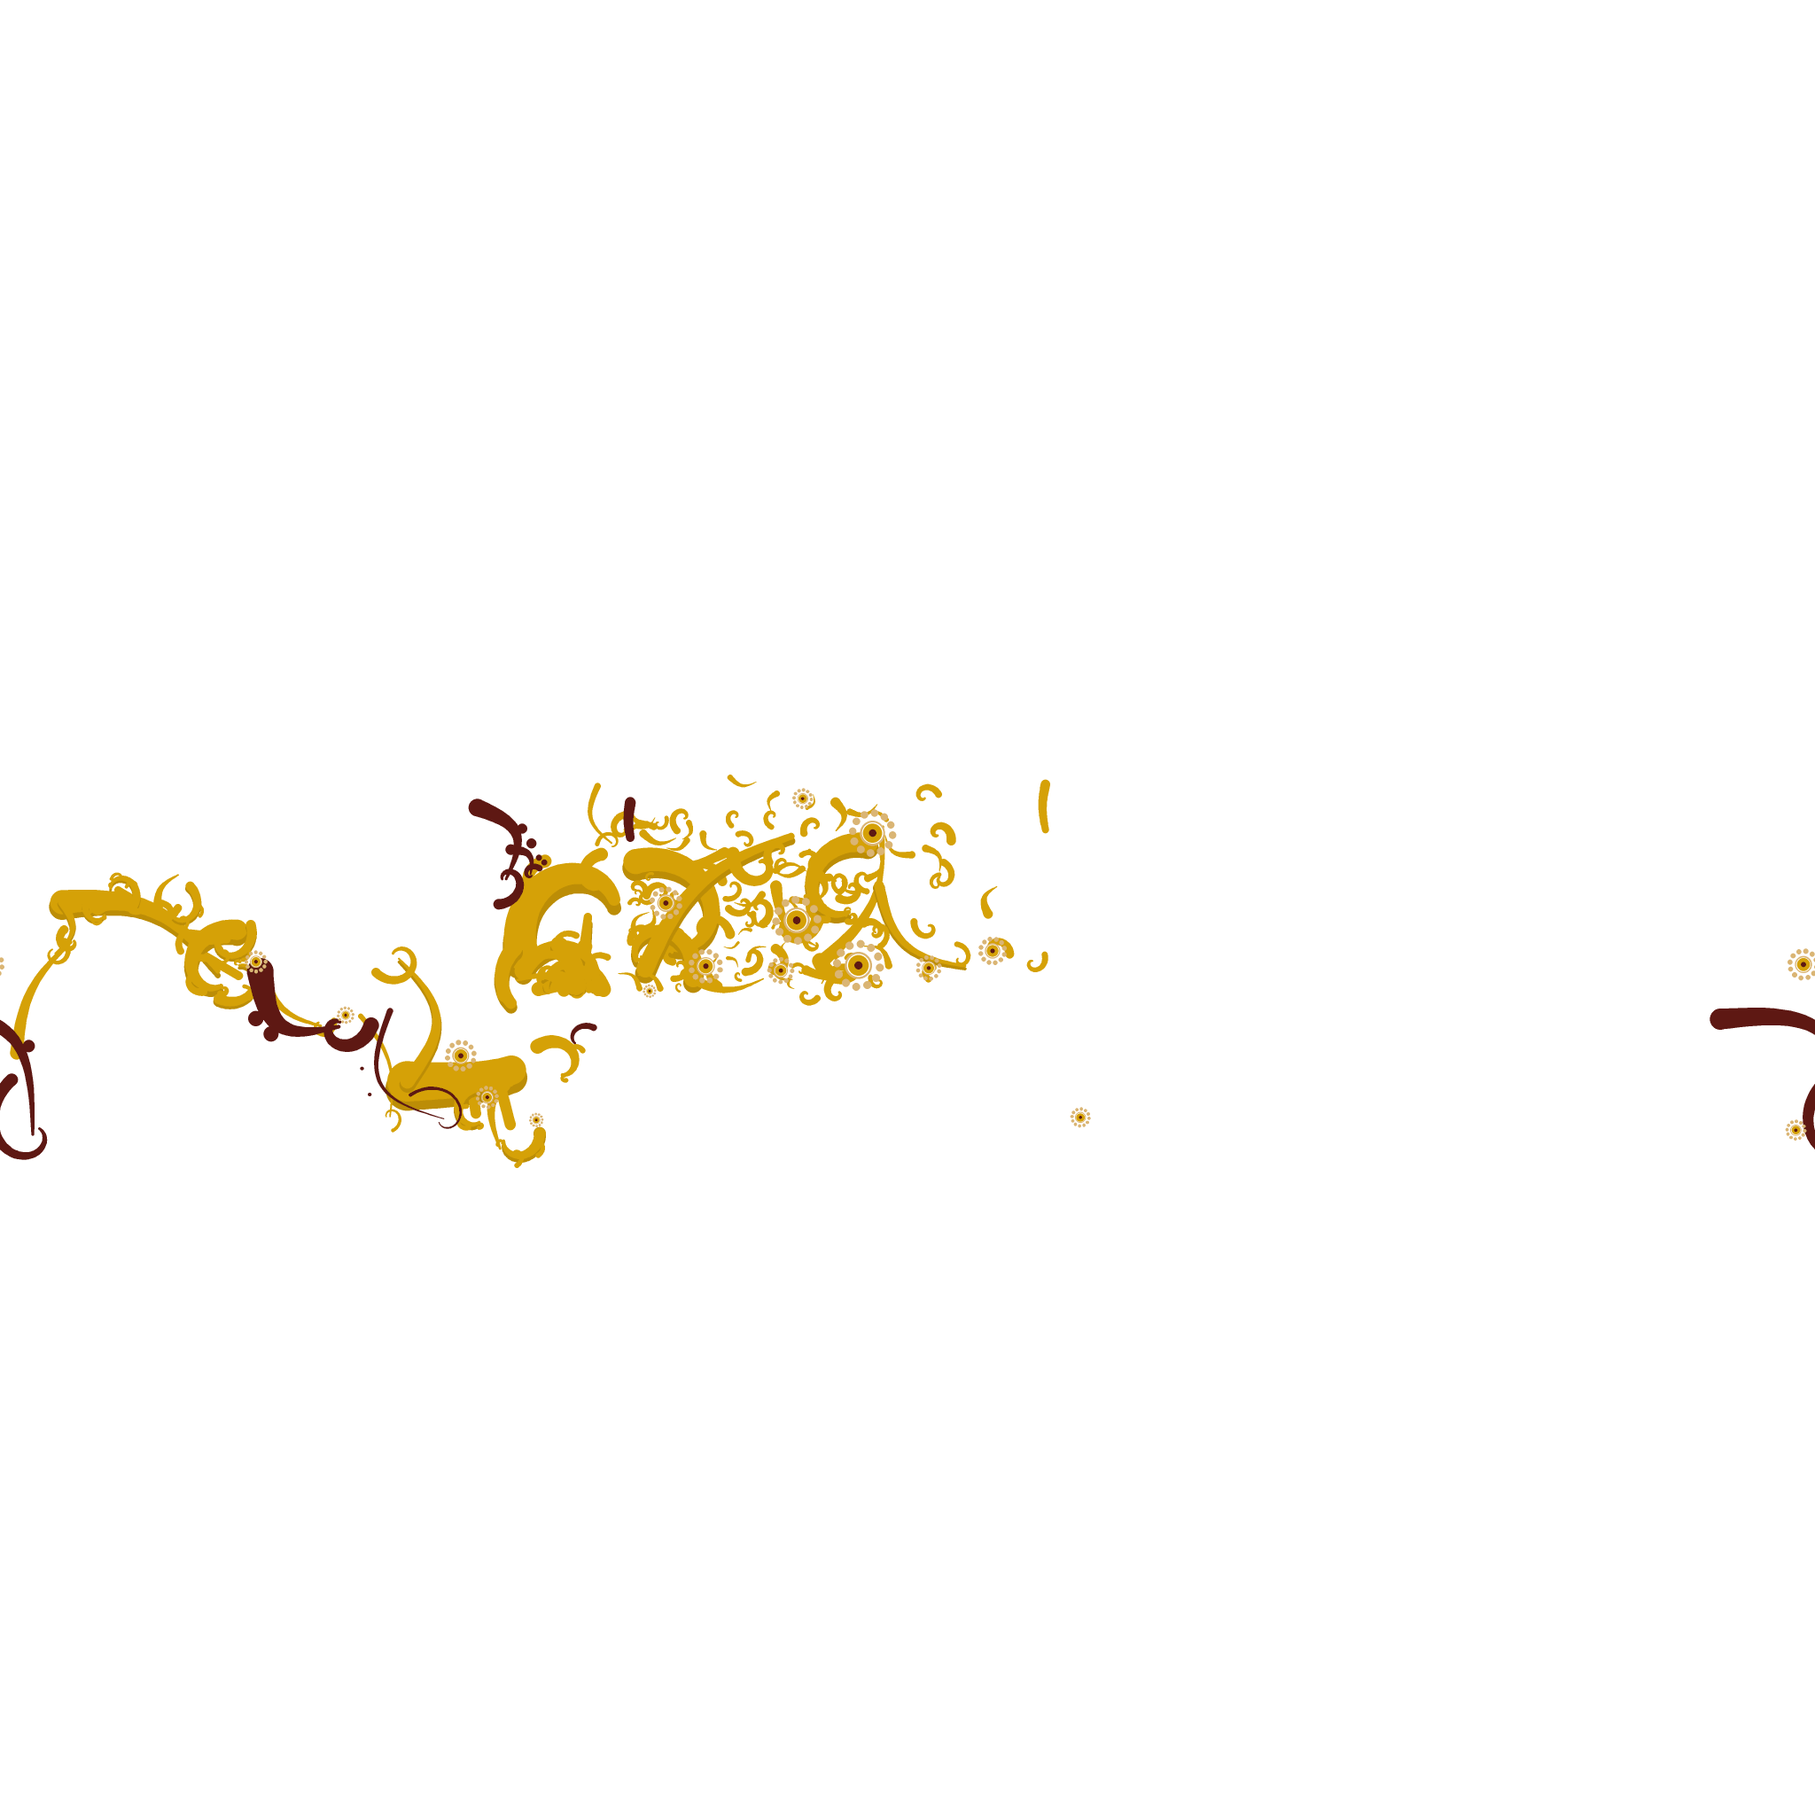
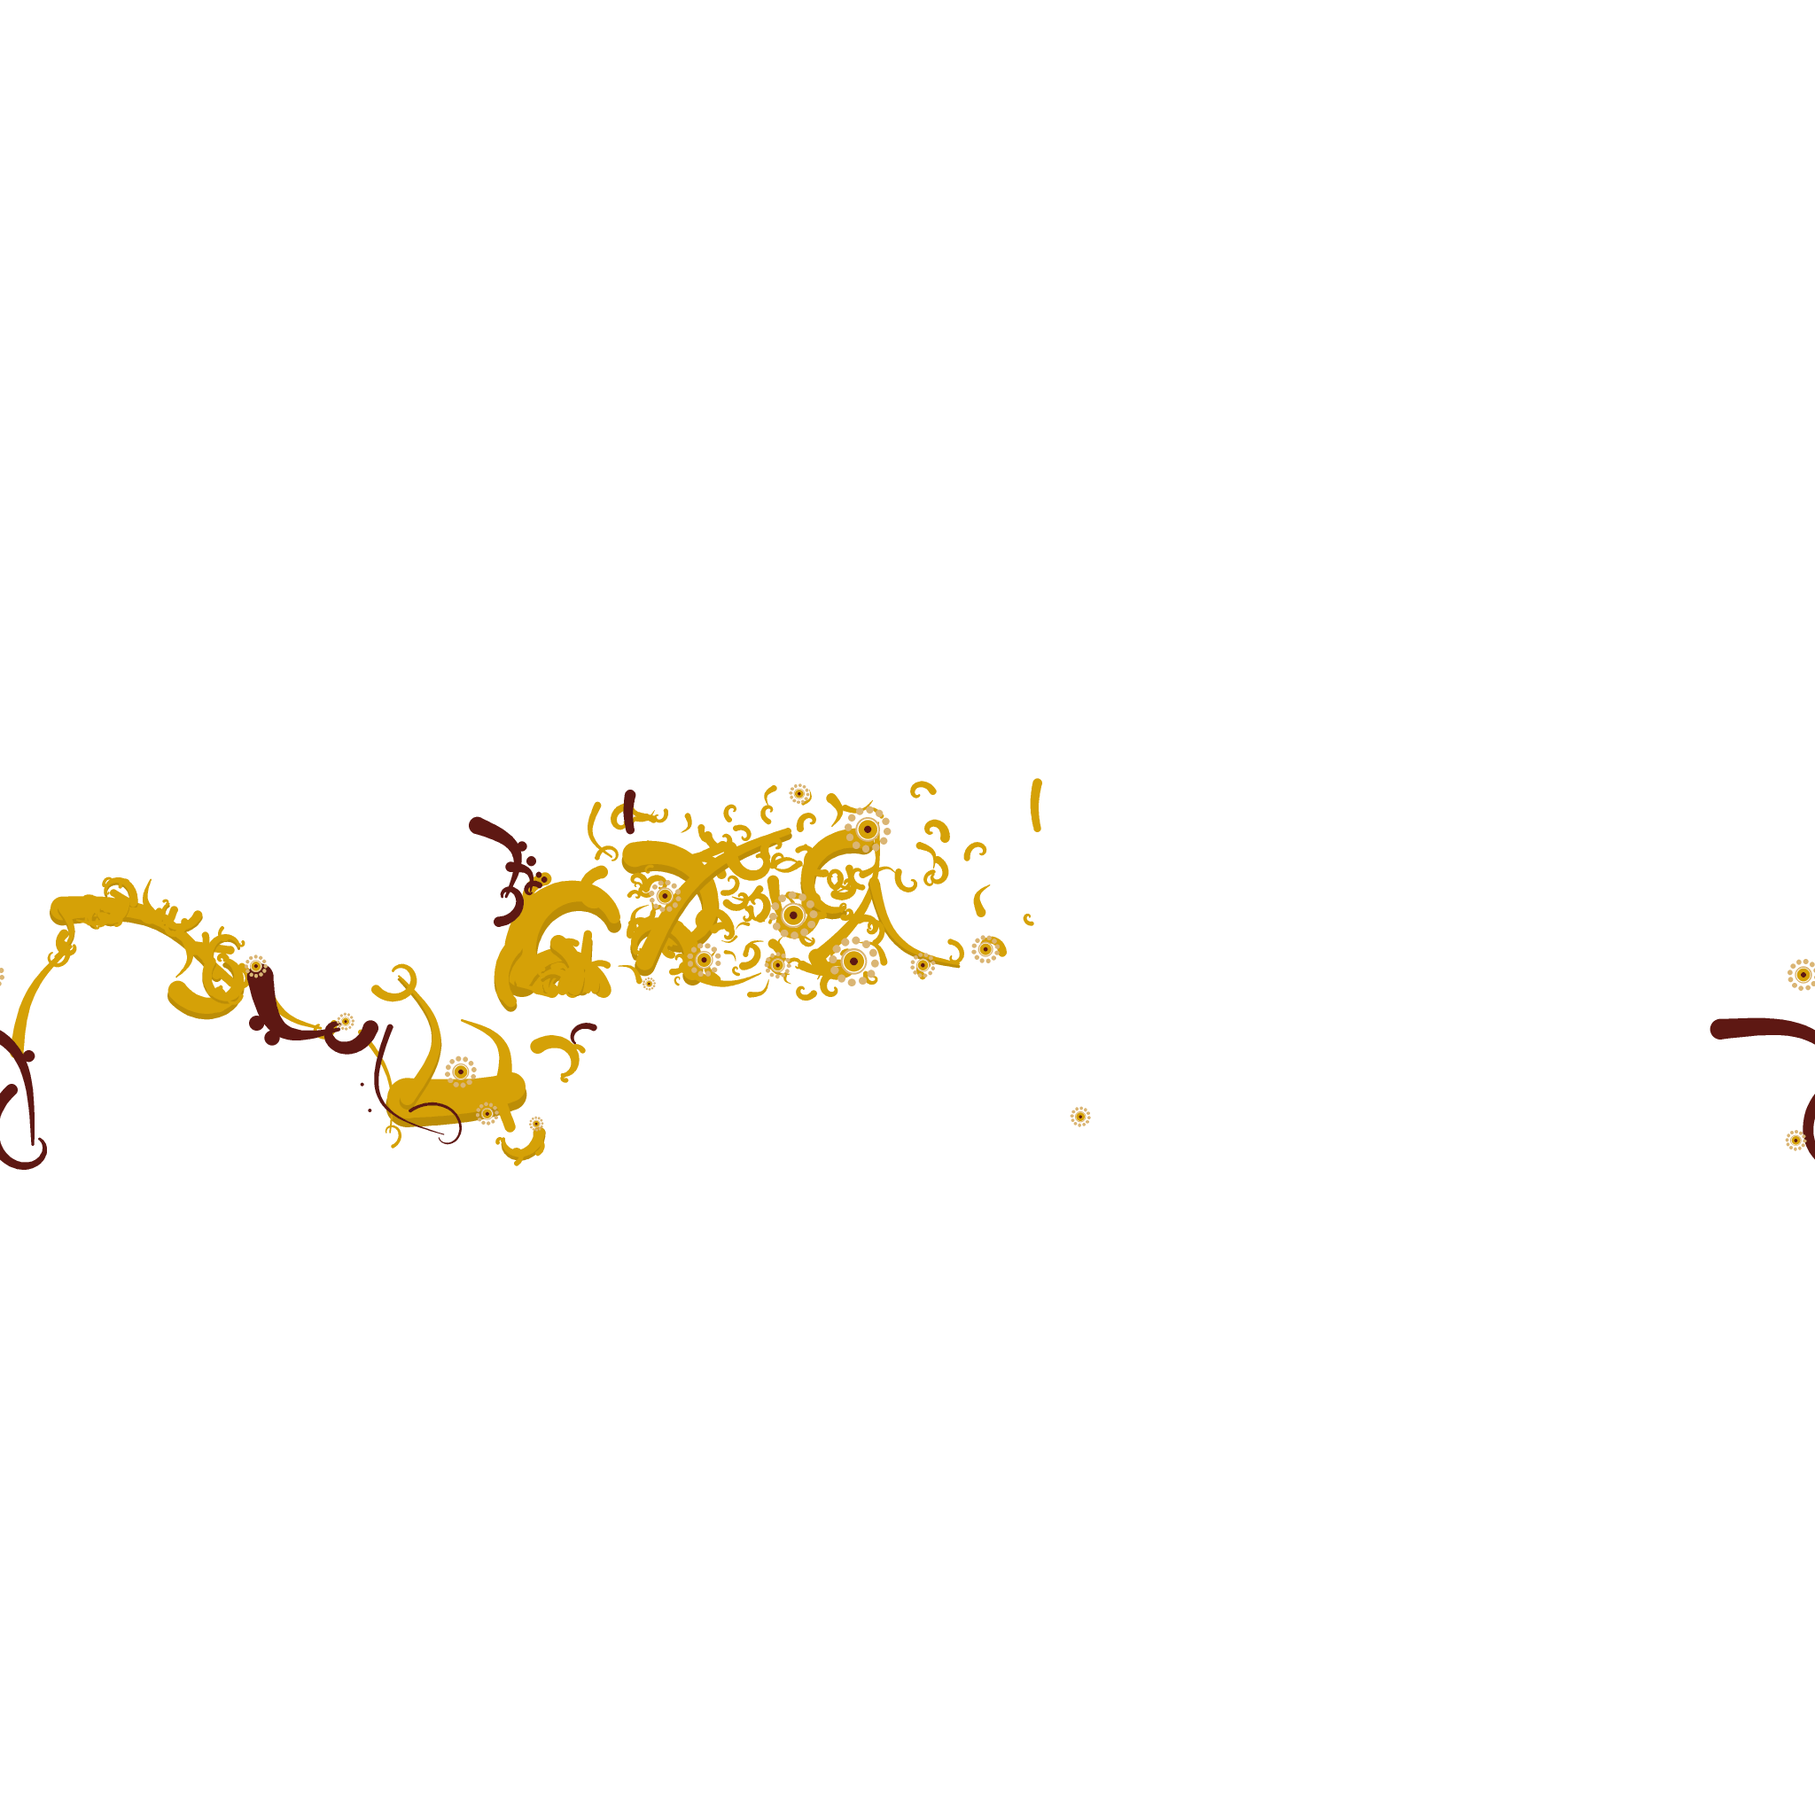
rev 25: the bake frame parsed, not re-typed, and the artwork re-baked (SPEC 10.68)
Item 2 verified BY MEASUREMENT, and its brief REFUTED.

_ZB_AUTH's claimed "up to 76 mm at the tail" is CONFIRMED exactly (76.222 mm at
x = X_TAIL) and REFUTED as a defect: no art is painted anywhere aft of x=-1.40,
so ink-weighted the missing _aft() re-space is 0.0023 mm. It is NOT larger than
DOOR_X0 where it counts; it is ~7500x smaller. The real _ZB_AUTH defect is five
DROPPED KNOTS, worst at +2.085 on the NOSE: 19.477 mm peak, 3.53 % of the ink.

DOOR_X0 dominates, and worse than reported: DOOR_W was 1.935 % too wide, and it
is the divisor for every u of the door art -- 82.5 % of door ink displaced >2 mm,
ink-weighted 6.290 mm, and 3411 px past the true rear shut line (1.44x the whole
B-pillar). Verified by hand off t1_shell's constant graph.

CONTROL FAILED AND THAT WAS THE FINDING: re-baking with constants UNCHANGED does
not reproduce the committed tex/swirl.png (4.029 % / 4.261 % of px, max 255).
The bake IS deterministic (two processes, identical md5), and a bisect holding
the whole tree at rev 24 while swapping in only the pre-rev-23 folk_gen.py
reproduces the committed files BYTE-IDENTICALLY. The model was wearing artwork
fourteen revisions old.

FIX IS STRUCTURAL, the work rev 23 declined to do blind: a tiny bounded _ceval
reads t1_shell's constant GRAPH (DOOR_GAP's expressions, BAYS' comprehension,
B_PILLAR's os.environ default) and t1_core's ZB knots, so DOOR_X0 is expressed
in terms of BAYS[0][1] exactly as t1_shell expresses it, and T1_BPILLAR now
[…]

diff --git a/folk_gen.py b/folk_gen.py
@@ -267,8 +267,128 @@ def _from_module(fname, names):
     return found
 
 
+# rev 25, SPEC 10.68.  `_from_module` above can only read a name whose value is
+# a bare literal.  The three things this generator STILL re-typed -- the door's
+# rear station, the rocker LUT and the arch/tyre radii -- are not bare literals
+# in their home modules: `DOOR_GAP`'s rear points are EXPRESSIONS, `BAYS` is a
+# comprehension, `B_PILLAR` is an os.environ lookup and `ZB` is wrapped in a
+# call.  rev 23 named that as the reason it left them re-typed and said the
+# proper parse "is real work and was not done blind at the end of a revision".
+#
+# This is that work.  `_ceval` is a DELIBERATELY TINY evaluator over the node
+# types those definitions actually use -- no attribute access, no imports, no
+# arbitrary calls -- so it can read a constant GRAPH without executing the
+# module (which would need bpy).  Anything it does not recognise RAISES; a
+# silent fallback to a re-typed literal is precisely how this drifted for
+# fourteen revisions (SPEC 10.63).
+def _ceval(node, ns):
+    import ast as _a
+    if isinstance(node, _a.Constant):
+        return node.value
+    if isinstance(node, _a.Name):
+        if node.id not in ns:
+            raise RuntimeError("folk_gen._ceval: unbound name %r" % node.id)
+        return ns[node.id]
+    if isinstance(node, _a.Tuple):
+        return tuple(_ceval(e, ns) for e in node.elts)
+    if isinstance(node, _a.List):
+        return [_ceval(e, ns) for e in node.elts]
+    if isinstance(node, _a.UnaryOp) and isinstance(node.op, _a.USub):
+        return -_ceval(node.operand, ns)
+    if isinstance(node, _a.BinOp):
+        a, b = _ceval(node.left, ns), _ceval(node.right, ns)
+        for op, fn in ((_a.Add, lambda p, q: p + q), (_a.Sub, lambda p, q: p - q),
+                       (_a.Mult, lambda p, q: p * q), (_a.Div, lambda p, q: p / q)):
+            if isinstance(node.op, op):
+                return fn(a, b)
+        raise RuntimeError("folk_gen._ceval: unsupported operator")
+    if isinstance(node, _a.Subscript):
+        return _ceval(node.value, ns)[_ceval(node.slice, ns)]
+    if isinstance(node, _a.ListComp):
+        if len(node.generators) != 1 or node.generators[0].ifs:
+            raise RuntimeError("folk_gen._ceval: only a simple 1-for comp")
+        gen = node.generators[0]
+        if not isinstance(gen.target, _a.Name):
+            raise RuntimeError("folk_gen._ceval: comp target must be a Name")
+        out = []
+        for v in _ceval(gen.iter, ns):
+            sub = dict(ns)
+            sub[gen.target.id] = v
+            out.append(_ceval(node.elt, sub))
+        return out
+    if isinstance(node, _a.Call):
+        f = node.func
+        # float(x) -> x
+        if isinstance(f, _a.Name) and f.id == "float":
+            return float(_ceval(node.args[0], ns))
+        # os.environ.get(VAR, DEFAULT) -> honour the SAME env var t1_shell reads,
+        # so a falsification run (T1_BPILLAR=...) moves the art frame with the
+        # geometry instead of silently baking against the default.
+        if (isinstance(f, _a.Attribute) and f.attr == "get"
+                and isinstance(f.value, _a.Attribute) and f.value.attr == "environ"):
+            var = _ceval(node.args[0], ns)
+            dfl = _ceval(node.args[1], ns)
+            return os.environ.get(var, dfl)
+        raise RuntimeError("folk_gen._ceval: unsupported call")
+    raise RuntimeError("folk_gen._ceval: unsupported node %s"
+                       % type(node).__name__)
+
+
+def _graph_from_module(fname, names, seed=None):
+    """Evaluate a module's top-level constant GRAPH for the named values.
+
+    Walks top-level assignments in source order, evaluating each one it can and
+    SKIPPING the ones it cannot, so an unrelated definition using bpy or a
+    function call never blocks the ones we want.  Raises if any requested name
+    is still missing at the end -- never falls back.
+    """
+    import ast as _a
+    src = open(os.path.join(HERE, fname)).read()
+    ns = dict(seed or {})
+    for node in _a.parse(src).body:
+        if not isinstance(node, _a.Assign) or len(node.targets) != 1:
+            continue
+        tgt = node.targets[0]
+        if not isinstance(tgt, _a.Name):
+            continue
+        try:
+            ns[tgt.id] = _ceval(node.value, ns)
+        except Exception:
+            continue                      # not constant-evaluable; not our concern
+    missing = [n for n in names if n not in ns]
+    if missing:
+        raise RuntimeError(
+            "folk_gen could not evaluate %s out of %s. It must NOT fall back to "
+            "a re-typed literal -- that is how the door frame went 17.25 mm and "
+            "the rocker LUT 76 mm stale (SPEC 10.68). Fix the parse."
+            % (missing, fname))
+    return {n: ns[n] for n in names}
+
+
+def _call_arg_from_module(fname, name, fnames):
+    """Return the first argument of `name = <fname>( ... )`, literal-evaluated.
+
+    Used for `ZB = aft_lut([...])` in t1_core: the KNOTS are what this generator
+    needs, and they are the call's argument, not the name's value.
+    """
+    import ast as _a
+    src = open(os.path.join(HERE, fname)).read()
+    for node in _a.parse(src).body:
+        if (isinstance(node, _a.Assign) and len(node.targets) == 1
+                and isinstance(node.targets[0], _a.Name)
+                and node.targets[0].id == name
+                and isinstance(node.value, _a.Call)
+                and isinstance(node.value.func, _a.Name)
+                and node.value.func.id in fnames):
+            return _a.literal_eval(node.value.args[0]), node.value.func.id
+    raise RuntimeError(
+        "folk_gen could not find `%s = <%s>(...)` in %s. It must NOT fall back "
+        "to a re-typed table (SPEC 10.68)." % (name, "|".join(fnames), fname))
+
+
 _C = _from_module("t1_core.py", ("RAKE_Z0", "RAKE_DZDX", "X_NOSE",
-                                 "X_AXLE_R", "O_NEW"))
+                                 "X_AXLE_R", "O_NEW", "X_TAIL_OLD",
+                                 "TIRE_R"))
 RAKE_Z0, RAKE_DZDX = _C["RAKE_Z0"], _C["RAKE_DZDX"]
 X_NOSE = _C["X_NOSE"]
 # X_TAIL is DERIVED in t1_core (`_aft(X_TAIL_OLD)`) and is not a literal there,
@@ -276,34 +396,79 @@ X_NOSE = _C["X_NOSE"]
 # overhang -- rather than re-typed.  Cross-checked against the live mesh at
 # -1.8730 when this was written.
 X_TAIL = _C["X_AXLE_R"] - _C["O_NEW"]
+X_AXLE_R = _C["X_AXLE_R"]
+TIRE_R = _C["TIRE_R"]
+_O_OLD = _C["X_AXLE_R"] - _C["X_TAIL_OLD"]
+
+
+def _aft(x):
+    """t1_core._aft, re-derived from the SAME parsed constants.
+
+    rev 16 re-spaced every aft LUT knot by its fraction of the rear overhang.
+    t1_core applies this inside `aft_lut()`; this generator read the AUTHORED
+    knots and never applied it, which is SPEC 10.68's rocker defect.
+    """
+    if x >= X_AXLE_R:
+        return x
+    return X_AXLE_R - ((x - X_AXLE_R) / (-_O_OLD)) * _C["O_NEW"]
 # Z_BELT0 is the ABOVE-GROUND belt at x = 0: the authored (un-dropped) belt
 # less the ride drop at x = 0.  t1_mats derives it exactly this way.
 _M = _from_module("t1_mats.py", ("Z_BELT_AUTH",))
 Z_BELT0 = _M["Z_BELT_AUTH"] - RAKE_Z0
 
-# cab-door shut line, t1_shell.DOOR_GAP (authored z, un-sheared)
+# cab-door shut line -- PARSED out of t1_shell.DOOR_GAP (authored z, un-sheared)
 #
-# rev 23, STALE AND NAMED AS SUCH RATHER THAN QUIETLY FIXED.  rev 23 moved the
-# cab door's rear run forward by DOOR_REAR_DX = 17.3 mm to give the B-pillar a
-# non-negative width (SPEC 10.62), so DOOR_X0 below is now 17.3 mm stale.  It
-# is NOT parsed like the four constants above because t1_shell.DOOR_GAP's rear
-# points are EXPRESSIONS (`0.9084 + DOOR_REAR_DX`), which `ast.literal_eval`
-# cannot evaluate, and B_PILLAR is an os.environ lookup.  Parsing it properly
-# means evaluating t1_shell's constant graph, which is real work and was not
-# done blind at the end of a revision.
+# rev 25, SPEC 10.68.  This was re-typed as `DOOR_X0 = 0.9084` and rev 23
+# recorded it as "17.3 mm stale, carried forward".  MEASURED this revision, the
+# staleness is 17.250 mm on the rear control point -- but the number that
+# matters is the WIDTH: the re-typed DOOR_W was 0.908700 against a true
+# 0.891450, i.e. 1.935 % too wide, and DOOR_W is the divisor for every
+# u-coordinate of the door art.  That displaced 82.5 % of the door ink by more
+# than 2 mm and put 3411 px past the true rear shut line.
 #
-# IT CHANGES NOTHING TODAY: build.py never calls folk_gen -- tex/*.png are
-# committed, pre-baked artefacts.  This bites only on the next re-bake, which
-# 10.10 makes a measured operation anyway.  CARRIED FORWARD, see SPEC 10.63.
-DOOR_X0, DOOR_X1 = 0.9084, 1.8171            # latch (aft) .. hinge (fwd)
-DOOR_W = DOOR_X1 - DOOR_X0                   # 0.9087 m  (measured 0.94)
-_DOOR_BOT_AUTH = [(0.9084, 0.8160), (1.1000, 0.8040), (1.4000, 0.8000),
-                  (1.6500, 0.8040), (1.8171, 0.8120)]
-_DOOR_TOP_AUTH = 1.8140                      # top rail of the shut line
-# rocker / sill bottom, t1_core.ZB (authored z)
-_ZB_AUTH = [(-2.108, 0.468), (-2.000, 0.394), (-1.600, 0.387), (-0.400, 0.385),
-            (0.400, 0.385), (1.000, 0.387), (1.500, 0.391), (1.800, 0.397),
-            (1.960, 0.408), (2.040, 0.430), (2.108, 0.520)]
+# The whole outline now comes from t1_shell through `_graph_from_module`, so
+# DOOR_X0 is EXPRESSED IN TERMS OF `BAYS[0][1]` exactly as t1_shell expresses
+# it, and the B-pillar env override moves the art with the geometry.
+_S = _graph_from_module("t1_shell.py",
+                        ("BAY_W", "BAY_CX", "BAYS", "B_PILLAR",
+                         "_DOOR_REAR_X0", "DOOR_REAR_DX", "DOOR_GAP"))
+B_PILLAR = float(_S["B_PILLAR"])
+DOOR_REAR_DX = _S["DOOR_REAR_DX"]
+_GAP = [(float(x), float(z)) for (x, z) in _S["DOOR_GAP"]]
+DOOR_X0 = min(x for x, _ in _GAP)            # latch (aft)
+DOOR_X1 = max(x for x, _ in _GAP)            # hinge (fwd)
+DOOR_W = DOOR_X1 - DOOR_X0                   # 0.8915 m  (measured 0.94)
+# the bottom run is the tail of t1_shell's outline: every point at or below the
+# lowest z plus 20 mm, in increasing x.  Read, not re-typed.
+_zbot = min(z for _, z in _GAP)
+_DOOR_BOT_AUTH = sorted([p for p in _GAP if p[1] <= _zbot + 0.020])
+# top rail of the shut line: an AUTHORED scalar, DELIBERATELY NOT PARSED.
+#
+# rev 25.  I first derived this as the mean z of t1_shell's top run and wrote
+# "within 1 mm of the historical 1.8140" in this comment BEFORE watching it
+# print.  The print refuted me: the run (1.8020, 1.8130, 1.8150, 1.8130, 1.8060)
+# means 1.80980, which is 4.2 mm LOWER, and it would move DOOR_H and with it
+# every v-coordinate of the door art.  That is a SECOND lever in the same bake
+# and nothing measured says 1.8098 is the better value -- so it is HELD at the
+# authored 1.8140, DOOR_H stays bit-identical, and the 4.2 mm discrepancy is
+# carried forward as an open item rather than absorbed into an unrelated fix.
+# One lever at a time.
+_DOOR_TOP_AUTH = 1.8140                      # authored; see SPEC 10.68
+# rocker / sill bottom -- PARSED from t1_core.ZB's own knots and re-spaced by
+# the SAME `_aft()` t1_core applies inside `aft_lut()`.
+#
+# rev 25, SPEC 10.68.  The re-typed table did two things wrong and only one of
+# them mattered.  (a) It never applied `_aft()`, giving 76.222 mm of z error at
+# x = X_TAIL -- CONFIRMED exactly, and REFUTED as a defect, because no art is
+# painted anywhere aft of x = -1.40: ink-weighted that mechanism is 0.0023 mm.
+# (b) It DROPPED FIVE KNOTS (-2.086, -2.050, -1.900, -1.200, +2.085).  The one
+# at +2.085 is at the NOSE, where there IS ink: 19.477 mm peak, touching 3.53 %
+# of the primary-copy ink, and it is essentially the whole 0.7818 mm
+# ink-weighted error.  Parsing the table kills both at once.
+_ZB_KNOTS, _ZB_WRAP = _call_arg_from_module("t1_core.py", "ZB",
+                                            ("aft_lut", "lut"))
+_ZB_AUTH = ([(_aft(x), z) for (x, z) in _ZB_KNOTS] if _ZB_WRAP == "aft_lut"
+            else [(x, z) for (x, z) in _ZB_KNOTS])
 # the flank proper: outside this the body wraps to the +/-X faces of the box
 # projection and a (x, z) authored motif is not what gets sampled.
 FLANK_X0, FLANK_X1 = -2.000, 2.030
@@ -367,8 +532,14 @@ DOOR_H = ((_DOOR_TOP_AUTH - rake_drop(1.36)) - door_bot_z(1.36))   # ~1.017 m
 #     model's own circle is used, because the art has to be visible on the
 #     body that is actually rendered.
 CNT_DROP = 0.1248
-TIRE_R, ARCH_R = 0.3325, 0.3735              # t1_core.py:35, t1_shell.py:203
-X_AXLE_R = -1.100                            # t1_core.py:25
+# rev 25, SPEC 10.68.  These were three MORE re-typed literals -- the same
+# family as the four rev 23 converted, 100 lines below the parse that already
+# reads X_AXLE_R into _C and then shadowed it with a bare literal.  All three
+# happened to still AGREE when checked, so this is exposure removed, not damage
+# repaired, and it is stated that way.  Their provenance comment was also wrong:
+# TIRE_R is t1_core.py:80 and ARCH_R is t1_shell.py:254, not :35 / :203.
+ARCH_R = _graph_from_module("t1_shell.py", ("ARCH_R",))["ARCH_R"]
+# TIRE_R and X_AXLE_R are parsed into _C at the top of section 2.
 
 
 def arch_top(x):
